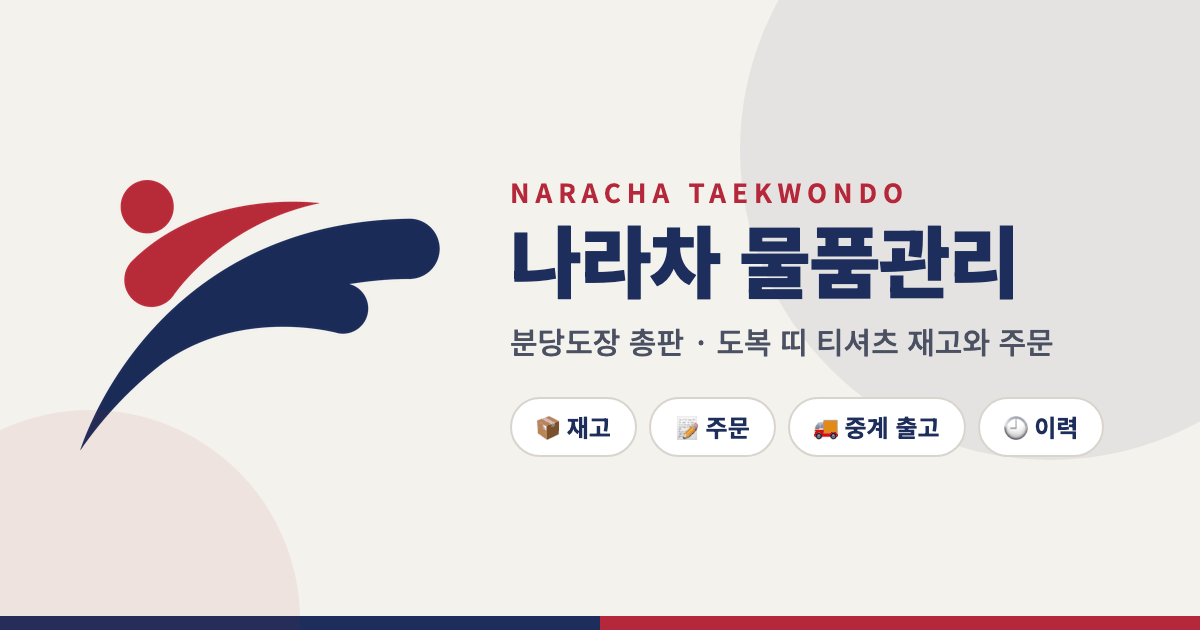
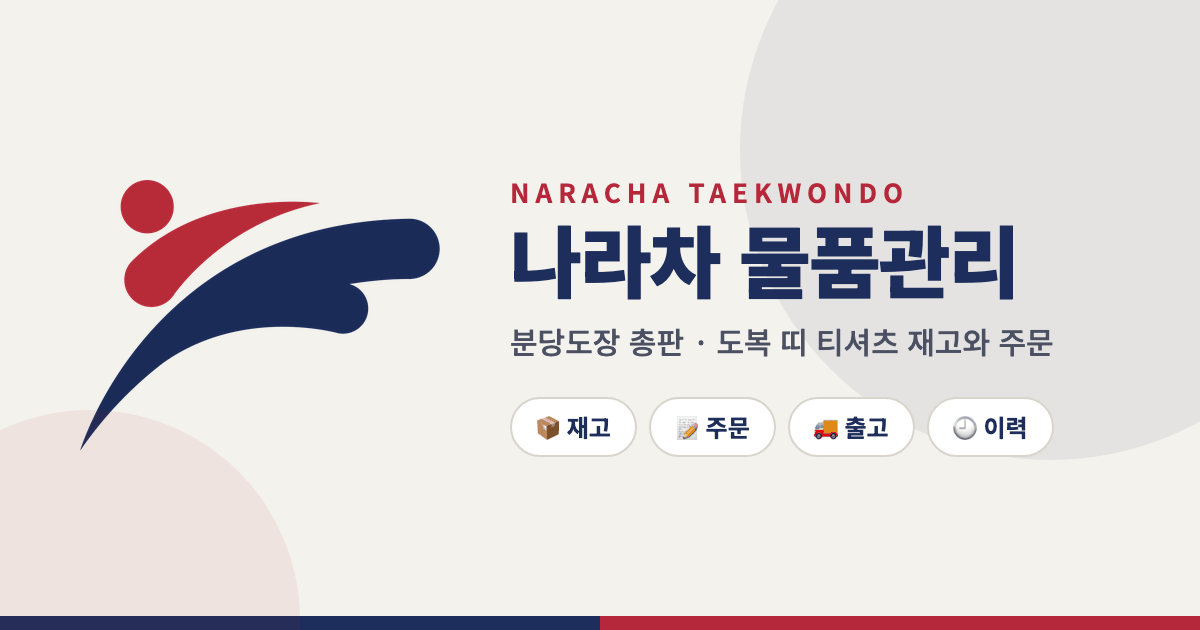
물품앱 R1.4 중계 탭 제거 → 출고 탭(받는 곳·위치·수량 기록, 즉시 차감·취소 복원) (v1.4)

Changed region(s): [[0.7092, 0.6333, 0.925, 0.7238]]

diff --git a/stock.html b/stock.html
@@ -4,7 +4,7 @@
 <meta charset="UTF-8">
 <meta name="viewport" content="width=device-width, initial-scale=1.0, viewport-fit=cover">
 <title>나라차 물품관리</title>
-<meta name="description" content="나라차태권도 분당도장(총판) 도복·띠·티셔츠 재고 파악과 주문, 중계도장 출고 관리">
+<meta name="description" content="나라차태권도 분당도장(총판) 도복·띠·티셔츠 재고 파악과 주문·출고 관리">
 <meta name="theme-color" content="#1D2E5C">
 <meta name="apple-mobile-web-app-capable" content="yes">
 <meta name="apple-mobile-web-app-status-bar-style" content="default">
@@ -13,7 +13,7 @@
 <meta property="og:type" content="website">
 <meta property="og:site_name" content="나라차태권도 분당도장">
 <meta property="og:title" content="나라차 물품관리">
-<meta property="og:description" content="도복 · 띠 · 티셔츠 재고 파악과 주문, 중계도장 출고까지 한 곳에서">
+<meta property="og:description" content="도복 · 띠 · 티셔츠 재고 파악과 주문, 출고 기록까지 한 곳에서">
 <meta property="og:url" content="https://narachadata.github.io/naracha/stock.html">
 <meta property="og:image" content="https://narachadata.github.io/naracha/stock-og.png">
 <meta property="og:image:width" content="1200">
@@ -208,17 +208,17 @@ pre.txt{white-space:pre-wrap;background:#f7f6f2;border:1px solid var(--line);bor
 <script>
 /* ═══════════════════════════════════════════════════════════════
    나라차 물품관리 (stock.html)
-   - 도복·띠·티셔츠 재고 파악 · 주문 · 중계도장 출고 · 이력
+   - 도복·띠·티셔츠 재고 파악 · 주문 · 출고 기록 · 이력
    - 단일 HTML 파일. 데이터는 이 기기(localStorage) + 구글 시트(Apps Script 「물품창고」)
    - 여러 기기 동시 수정: 값 하나하나에 수정시각(t)을 붙여 "더 최근 것"이 이기는 방식으로
      서버·기기 모두 같은 규칙으로 병합. 삭제는 del 표시(묘비)로 남기고 버리지 않는다.
    - 서버 응답이 조금이라도 이상하면(형식·인증·오류) 절대 저장하지 않는다(fail-closed).
    ═══════════════════════════════════════════════════════════════ */
-var APP_VER = "v1.3";   /* R1.3: 티셔츠 초기 수량 비움(관장님 직접 입력), 도복 수량 엑셀 대조 확인 · R1.2: 긴팔은 네이비·블랙만 — 긴팔 흰색 제거, 긴팔 남색 추가 · R1.1: 긴팔T-B=검정 확정, 초기값 이름 수정 · R1.0: 최초 제작 2026-09-09 */
+var APP_VER = "v1.4";   /* R1.4: 중계 탭 제거 → 출고 탭(받는 곳·위치·수량 기록, 즉시 차감, 취소=복원) · R1.3: 티셔츠 초기 수량 비움(관장님 직접 입력), 도복 수량 엑셀 대조 확인 · R1.2: 긴팔은 네이비·블랙만 — 긴팔 흰색 제거, 긴팔 남색 추가 · R1.1: 긴팔T-B=검정 확정, 초기값 이름 수정 · R1.0: 최초 제작 2026-09-09 */
 
 var LS_DB='naracha_stock_db', LS_CFG='naracha_stock_cfg', LS_DIRTY='naracha_stock_dirty', LS_UI='naracha_stock_ui';
 var CATS=[{id:'dobok',name:'도복',unit:'벌',ic:'🥋'},{id:'belt',name:'띠',unit:'개',ic:'🎗'},{id:'tee',name:'티셔츠',unit:'장',ic:'👕'}];
-var LOGTYPES={sale:'판매',in:'입고',adj:'조정',move:'이동',count:'실사',jg:'중계출고',undo:'되돌림',seed:'초기값',order:'주문'};
+var LOGTYPES={sale:'판매',in:'입고',adj:'조정',move:'이동',count:'실사',out:'출고',undo:'되돌림',seed:'초기값',order:'주문'};
 var SEED_T = 1788800000000;  /* 초기값 전용 고정 시각(2026-09-07) — 사람이 고친 값(더 최근)이 항상 이기도록 */
 
 var DB={rev:0,recs:{}};  var DIRTY={};  var CFG={url:'',key:'',who:''};
@@ -348,14 +348,13 @@ function isTyping(){var a=document.activeElement;return a&&(a.tagName==='INPUT'|
 function toast(m){var t=document.getElementById('toast');t.textContent=m;t.classList.add('show');clearTimeout(t._h);t._h=setTimeout(function(){t.classList.remove('show');},2200);}
 function go(tab){UI.tab=tab;saveUI();render();window.scrollTo(0,0);}
 function render(){
-  var tabs=[['stock','재고','📦'],['order','주문','📝'],['jg','중계','🚚'],['log','이력','🕘'],['set','설정','⚙']];
+  var tabs=[['stock','재고','📦'],['order','주문','📝'],['out','출고','🚚'],['log','이력','🕘'],['set','설정','⚙']];
   var lackN=0;groups().forEach(function(g){items(g.id).forEach(function(it){if(lack(it.id)>0)lackN++;});});
-  var jgN=recsOf('jg').filter(function(r){return fv(r.id,'status')==='req';}).length;
-  document.getElementById('tabs').innerHTML=tabs.map(function(t){var b='';if(t[0]==='order'&&lackN)b='<span class="badge">'+lackN+'</span>';if(t[0]==='jg'&&jgN)b='<span class="badge">'+jgN+'</span>';
+  document.getElementById('tabs').innerHTML=tabs.map(function(t){var b='';if(t[0]==='order'&&lackN)b='<span class="badge">'+lackN+'</span>';
     return '<button class="'+(UI.tab===t[0]?'on':'')+'" onclick="go(\''+t[0]+'\')"><span class="ic">'+t[2]+'</span><span>'+t[1]+'</span>'+b+'</button>';}).join('');
   document.getElementById('whoPill').textContent=CFG.who||'이름?';
   var v=document.getElementById('view');
-  v.innerHTML=({stock:rStock,order:rOrder,jg:rJg,log:rLog,set:rSet}[UI.tab]||rStock)();
+  v.innerHTML=({stock:rStock,order:rOrder,out:rOut,log:rLog,set:rSet}[UI.tab]||rStock)();
   setState(SY.state,SY.msg);
 }
 function banner(){
@@ -442,7 +441,7 @@ function openGroupMenu(g){
   var h='<div class="mh"><div><div class="t">'+esc(grpName(g))+'</div><div class="s">'+esc(fv(g,'sub',''))+'</div></div><button class="x" onclick="closeModal()">✕</button></div>';
   h+='<div class="field"><label>이름</label><input class="inp" id="gname" value="'+esc(grpName(g))+'"></div>';
   h+='<div class="field"><label>설명(원단·규격 등)</label><input class="inp" id="gsub" value="'+esc(fv(g,'sub',''))+'"></div>';
-  h+='<div class="row"><div class="field" style="flex:1"><label>단위</label><input class="inp" id="gunit" value="'+esc(grpUnit(g))+'"></div><div class="field" style="flex:1"><label>판매 단가(원, 중계 출고 금액용)</label><input class="inp" type="number" inputmode="numeric" id="gprice" value="'+(fv(g,'price',0)||'')+'"></div></div>';
+  h+='<div class="row"><div class="field" style="flex:1"><label>단위</label><input class="inp" id="gunit" value="'+esc(grpUnit(g))+'"></div><div class="field" style="flex:1"><label>판매 단가(원, 출고 금액 집계용)</label><input class="inp" type="number" inputmode="numeric" id="gprice" value="'+(fv(g,'price',0)||'')+'"></div></div>';
   h+='<div class="field"><label>사이즈 추가 (쉼표로 여러 개: 150,160)</label><div class="row"><input class="inp" id="gsizes" style="flex:1" placeholder="예: 210"><button class="btn sec" onclick="addSizes(\''+g+'\')">추가</button></div></div>';
   h+='<div class="field"><label>사이즈 숨기기/보이기 (누르면 전환)</label><div class="chips">'+items(g,true).map(function(it){return '<button class="chip '+(alive(it.id)?'on':'')+'" onclick="toggleItem(\''+it.id+'\',this)">'+esc(fv(it.id,'size'))+'</button>';}).join('')+'</div><div class="note">숨겨도 기록은 남고 다시 보이게 할 수 있습니다.</div></div>';
   h+='<div class="mf"><button class="btn sec" onclick="hideGroup(\''+g+'\')">품목군 숨기기</button><button class="btn" onclick="saveGroup(\''+g+'\')">저장</button></div>';
@@ -528,71 +527,72 @@ function saveReceive(id){var ls=fv(id,'lines',[]).map(function(l){return {it:l.i
 
 /* 항목 고르기(주문 직접 추가 · 중계 주문 공용) */
 var PICK={mode:'',cat:'dobok',g:'',lines:[]};
-function openPick(mode,keep){PICK.mode=mode;if(!keep){PICK.lines=[];PICK.g='';}renderPick();}
+function openPick(mode,keep){PICK.mode=mode;if(!keep){PICK.lines=[];PICK.g='';PICK.to='';PICK.memo='';PICK.loc='';}renderPick();}
 function renderPick(){
   var gs=groups(PICK.cat);if(!PICK.g||fv(PICK.g,'cat')!==PICK.cat)PICK.g=gs.length?gs[0].id:'';
-  var h='<div class="mh"><div><div class="t">'+(PICK.mode==='jg'?'중계도장 주문 접수':'항목 추가')+'</div><div class="s">분류 → 품목군 → 사이즈를 누르면 담깁니다</div></div><button class="x" onclick="closeModal()">✕</button></div>';
+  var h='<div class="mh"><div><div class="t">'+(PICK.mode==='out'?'출고 기록':'항목 추가')+'</div><div class="s">분류 → 품목군 → 사이즈를 누르면 담깁니다</div></div><button class="x" onclick="closeModal()">✕</button></div>';
   h+='<div class="chips" style="margin-bottom:8px">'+CATS.map(function(c){return '<button class="chip '+(PICK.cat===c.id?'on':'')+'" onclick="PICK.cat=\''+c.id+'\';PICK.g=\'\';renderPick()">'+c.ic+' '+c.name+'</button>';}).join('')+'</div>';
   h+='<select class="inp" onchange="PICK.g=this.value;renderPick()">'+gs.map(function(g){return '<option value="'+g.id+'" '+(PICK.g===g.id?'selected':'')+'>'+esc(grpName(g.id))+(fv(g.id,'sub')?' — '+esc(fv(g.id,'sub')):'')+'</option>';}).join('')+'</select>';
   h+='<div class="chips" style="margin:10px 0">'+(PICK.g?items(PICK.g).map(function(it){return '<button class="chip" onclick="pickAdd(\''+it.id+'\')">'+esc(fv(it.id,'size'))+' <small style="opacity:.6">('+total(it.id)+')</small></button>';}).join(''):'')+'</div>';
   h+='<div class="lines">'+(PICK.lines.length?PICK.lines.map(function(l,i){return '<div class="line"><div class="n">'+esc(itemName(l.it))+' <small style="color:var(--mute)">보유 '+total(l.it)+'</small></div><div class="step" style="transform:scale(.85);transform-origin:right"><button onclick="PICK.lines['+i+'].q=Math.max(1,PICK.lines['+i+'].q-1);renderPick()">−</button><input type="number" inputmode="numeric" value="'+l.q+'" onchange="PICK.lines['+i+'].q=Math.max(1,Math.round(num(this.value)))"><button onclick="PICK.lines['+i+'].q++;renderPick()">＋</button></div><button class="btn xs ghost" onclick="PICK.lines.splice('+i+',1);renderPick()">✕</button></div>';}).join(''):'<div class="note">아직 담긴 항목이 없습니다.</div>')+'</div>';
-  if(PICK.mode==='jg')h+='<div class="field"><label>요청자 / 메모</label><input class="inp" id="jgmemo" placeholder="예: 중계 김사범 요청, 9/12 필요"></div>';
-  h+='<div class="mf"><button class="btn sec" onclick="closeModal()">취소</button><button class="btn" onclick="pickDone()" '+(PICK.lines.length?'':'disabled')+'>'+(PICK.mode==='jg'?'접수':'담기')+'</button></div>';
+  if(PICK.mode==='out'){var L=locs();h+='<div class="field"><label>받는 곳 / 주문한 사람</label><input class="inp" id="oto" value="'+esc(PICK.to||'')+'" placeholder="예: 중계도장, 김OO 학부모" onchange="PICK.to=this.value"></div>'
+    +'<div class="field"><label>어느 위치 재고에서 뺄까요</label><select class="inp" id="oloc" onchange="PICK.loc=this.value">'+L.map(function(l){return '<option value="'+l.id+'" '+((PICK.loc||(L[0]&&L[0].id))===l.id?'selected':'')+'>'+esc(locName(l.id))+' (보유: '+PICK.lines.map(function(x){return qty(x.it,l.id);}).join('/')+')</option>';}).join('')+'</select></div>'
+    +'<div class="field"><label>메모(선택)</label><input class="inp" id="omemo2" value="'+esc(PICK.memo||'')+'" placeholder="예: 9/12 직접 전달" onchange="PICK.memo=this.value"></div>';}
+  h+='<div class="mf"><button class="btn sec" onclick="closeModal()">취소</button><button class="btn" onclick="pickDone()" '+(PICK.lines.length?'':'disabled')+'>'+(PICK.mode==='out'?'출고 저장':'담기')+'</button></div>';
   openModal(h);
 }
 function pickAdd(it){var f=PICK.lines.filter(function(l){return l.it===it;})[0];if(f)f.q++;else PICK.lines.push({it:it,q:1});renderPick();}
 function pickDone(){
-  if(PICK.mode==='jg'){var memo=(document.getElementById('jgmemo')||{}).value||'';var id=uid('jg');setF(id,'jg',{t:now(),who:CFG.who||'',status:'req',lines:PICK.lines.map(function(l){return {it:l.it,q:l.q};}),memo:memo.trim(),del:false});closeModal();render();toast('중계 주문 접수됨');}
+  if(PICK.mode==='out'){saveOut();}
   else{PICK.lines.forEach(function(l){var f=UI.orderExtra.filter(function(x){return x.it===l.it;})[0];if(f)f.q+=l.q;else UI.orderExtra.push({it:l.it,q:l.q});});closeModal();render();}
 }
 
-/* ═══════════ 중계 탭 ═══════════ */
-function rJg(){
+/* ═══════════ 출고 탭 ═══════════ */
+function rOut(){
   var h=banner();
-  h+='<div class="banner" style="background:#eef1f8;border-color:#d5dcec;color:var(--navy)">🚚 <span class="sp"><b>중계도장</b>은 판매처입니다. 주문이 들어오면 접수하고, 보낼 때 [출고]를 누르면 분당 재고에서 빠지고 판매 기록이 남습니다.</span></div>';
-  h+='<div class="toolbar"><button class="btn" onclick="openPick(\'jg\')">＋ 중계 주문 접수</button></div>';
-  var js=recsOf('jg').sort(function(a,b){return fv(b.id,'t',0)-fv(a.id,'t',0);});
+  h+='<div class="banner" style="background:#eef1f8;border-color:#d5dcec;color:var(--navy)">🚚 <span class="sp">주문이 들어오면 <b>어디로 · 무엇을 · 몇 개</b> 보냈는지 기록합니다. 저장하는 순간 고른 위치의 재고에서 빠지고, 이력에도 남습니다.</span></div>';
+  h+='<div class="toolbar"><button class="btn" onclick="openPick(\'out\')">＋ 출고 기록</button></div>';
+  var os=recsOf('out').sort(function(a,b){return fv(b.id,'t',0)-fv(a.id,'t',0);});
   var m0=new Date();m0=new Date(m0.getFullYear(),m0.getMonth(),1).getTime();var mn=0,mw=0,tn=0,tw=0;
-  js.forEach(function(j){if(fv(j.id,'status')!=='done')return;fv(j.id,'lines',[]).forEach(function(l){var q=num(l.q),p=num(fv(fv(l.it,'grp'),'price',0));tn+=q;tw+=q*p;if(fv(j.id,'doneAt',0)>=m0){mn+=q;mw+=q*p;}});});
-  h+='<div class="kpis"><div class="kpi"><div class="v">'+js.filter(function(j){return fv(j.id,'status')==='req';}).length+'</div><div class="l">출고 대기 주문</div></div><div class="kpi"><div class="v">'+mn+'</div><div class="l">이번 달 출고 수량'+(mw?' · '+won(mw):'')+'</div></div><div class="kpi"><div class="v">'+tn+'</div><div class="l">누적 출고 수량'+(tw?' · '+won(tw):'')+'</div></div></div>';
+  os.forEach(function(o){if(fv(o.id,'undone',false))return;fv(o.id,'lines',[]).forEach(function(l){var q=num(l.q),p=num(fv(fv(l.it,'grp'),'price',0));tn+=q;tw+=q*p;if(fv(o.id,'t',0)>=m0){mn+=q;mw+=q*p;}});});
+  h+='<div class="kpis"><div class="kpi"><div class="v">'+os.filter(function(o){return !fv(o.id,'undone',false);}).length+'</div><div class="l">출고 기록 수</div></div><div class="kpi"><div class="v">'+mn+'</div><div class="l">이번 달 출고 수량'+(mw?' · '+won(mw):'')+'</div></div><div class="kpi"><div class="v">'+tn+'</div><div class="l">누적 출고 수량'+(tw?' · '+won(tw):'')+'</div></div></div>';
   h+='<div class="olist">';
-  if(!js.length)h+='<div class="empty">중계 주문이 없습니다.</div>';
-  js.forEach(function(j){var st=fv(j.id,'status');var ls=fv(j.id,'lines',[]);var n=0,w=0;ls.forEach(function(l){n+=num(l.q);w+=num(l.q)*num(fv(fv(l.it,'grp'),'price',0));});
-    h+='<div class="card"><div class="bd"><div class="oc"><span class="dt">'+fmtD(fv(j.id,'t'))+'</span>'+(st==='done'?'<span class="tag ok">출고 완료 '+fmtD(fv(j.id,'doneAt'))+'</span>':'<span class="tag warn">출고 대기</span>')+'<span class="wh">'+esc(fv(j.id,'who',''))+' · 총 '+n+(w?' · '+won(w):'')+'</span></div>';
+  if(!os.length)h+='<div class="empty">출고 기록이 없습니다. [＋ 출고 기록]으로 시작하세요.</div>';
+  os.forEach(function(o){var ls=fv(o.id,'lines',[]);var n=0,w=0;ls.forEach(function(l){n+=num(l.q);w+=num(l.q)*num(fv(fv(l.it,'grp'),'price',0));});
+    h+='<div class="card"><div class="bd"><div class="oc"><span class="dt">'+fmtD(fv(o.id,'t'))+'</span><span class="tag">→ '+esc(fv(o.id,'to','')||'미기재')+'</span><span class="wh">'+esc(fv(o.id,'who',''))+' · '+esc(locName(fv(o.id,'loc','')))+'에서 · 총 '+n+(w?' · '+won(w):'')+'</span></div>';
     h+=orderLinesHtml(ls);
-    if(fv(j.id,'memo'))h+='<div class="note">'+esc(fv(j.id,'memo'))+'</div>';
-    h+='<div class="acts"><button class="btn xs sec" onclick="copyText(jgText(\''+j.id+'\'))">📋 문구 복사</button>';
-    if(st==='req')h+='<button class="btn xs" onclick="openShip(\''+j.id+'\')">🚚 출고 처리</button><button class="btn xs ghost" onclick="if(confirm(\'이 접수를 삭제할까요?\')){setF(\''+j.id+'\',\'jg\',{del:true});render();}">삭제</button>';
+    if(fv(o.id,'memo'))h+='<div class="note">'+esc(fv(o.id,'memo'))+'</div>';
+    h+='<div class="acts"><button class="btn xs sec" onclick="copyText(outText(\''+o.id+'\'))">📋 문구 복사</button>';
+    if(!fv(o.id,'undone',false))h+='<button class="btn xs ghost" onclick="undoOut(\''+o.id+'\')">취소(재고 복원)</button>';else h+='<span class="tag gray">취소됨</span>';
     h+='</div></div></div>';});
   return h+'</div>';
 }
-function jgText(id){var ls=fv(id,'lines',[]);var s='[나라차 분당 → 중계도장 '+(fv(id,'status')==='done'?'출고':'주문')+'] '+fmtD(fv(id,'t'))+'\n';var n=0,w=0;
+function outText(id){var ls=fv(id,'lines',[]);var s='[나라차 분당도장 출고] '+fmtD(fv(id,'t'))+' → '+(fv(id,'to','')||'')+'\n';var n=0,w=0;
   ls.forEach(function(l){var g=fv(l.it,'grp'),p=num(fv(g,'price',0));s+=' - '+itemName(l.it)+' : '+num(l.q)+grpUnit(g)+(p?' ('+won(p*num(l.q))+')':'')+'\n';n+=num(l.q);w+=p*num(l.q);});
   s+='합계 '+n+(w?' · '+won(w):'')+(fv(id,'memo')?'\n'+fv(id,'memo'):'');return s;}
-function openShip(id){var ls=fv(id,'lines',[]);var L=locs();
-  var h='<div class="mh"><div><div class="t">중계 출고</div><div class="s">어느 위치 재고에서 뺄지 고르세요</div></div><button class="x" onclick="closeModal()">✕</button></div>';
-  h+='<div class="field"><label>출고 위치(재고에서 빠지는 곳)</label><select class="inp" id="sloc" onchange="shipCheck(\''+id+'\')">'+L.map(function(l,i){return '<option value="'+l.id+'" '+(i===0?'selected':'')+'>'+esc(locName(l.id))+'</option>';}).join('')+'</select></div>';
-  h+='<div id="shipLines"></div><div class="field" style="margin-top:10px"><label>메모</label><input class="inp" id="smemo" placeholder="예: 9/12 직접 전달"></div>';
-  h+='<div class="mf"><button class="btn sec" onclick="closeModal()">취소</button><button class="btn" onclick="saveShip(\''+id+'\')">출고 확정</button></div>';openModal(h);shipCheck(id);}
-function shipCheck(id){var loc=document.getElementById('sloc').value;var ls=fv(id,'lines',[]);
-  document.getElementById('shipLines').innerHTML=ls.map(function(l,i){var have=qty(l.it,loc),q=num(l.q);return '<div class="qrow"><div class="ln">'+esc(itemName(l.it))+'<small>'+esc(locName(loc))+' 보유 '+have+(have<q?' <span style="color:var(--red)">부족 '+(q-have)+'</span>':'')+'</small></div><div class="step"><button onclick="stepO(this,-1)">−</button><input type="number" inputmode="numeric" class="sq" data-i="'+i+'" value="'+q+'"><button onclick="stepO(this,1)">＋</button></div></div>';}).join('');}
-function saveShip(id){var loc=document.getElementById('sloc').value;var memo=document.getElementById('smemo').value.trim();var ls=fv(id,'lines',[]).map(function(l){return {it:l.it,q:l.q};});
-  [].forEach.call(document.querySelectorAll('.sq'),function(i){ls[num(i.dataset.i)].q=Math.max(0,Math.round(num(i.value)));});
+function saveOut(){
+  var to=(document.getElementById('oto')||{}).value||'';var loc=document.getElementById('oloc').value;var memo=(document.getElementById('omemo2')||{}).value||'';
+  var ls=PICK.lines.map(function(l){return {it:l.it,q:l.q};});
   var short=ls.filter(function(l){return qty(l.it,loc)<l.q;});
-  if(short.length&&!confirm(short.map(function(l){return itemName(l.it)+' '+qty(l.it,loc)+'→'+l.q;}).join('\n')+'\n\n'+locName(loc)+' 재고보다 많습니다. 재고는 0까지만 줄어듭니다. 그래도 출고할까요?'))return;
-  var ch=ls.filter(function(l){return l.q>0;}).map(function(l){return {it:l.it,loc:loc,to:qty(l.it,loc)-l.q};});
-  applyQty(ch,'jg',memo||'중계도장 출고',{ref:id});setF(id,'jg',{status:'done',doneAt:now(),lines:ls,loc:loc});closeModal();render();toast('출고 완료 — 재고에서 차감됨');}
+  if(short.length&&!confirm(short.map(function(l){return itemName(l.it)+' '+qty(l.it,loc)+'→'+l.q;}).join('\n')+'\n\n'+locName(loc)+' 재고보다 많습니다. 재고는 0까지만 줄어듭니다. 그래도 기록할까요?'))return;
+  var id=uid('out');
+  var ch=ls.map(function(l){return {it:l.it,loc:loc,to:qty(l.it,loc)-l.q};});
+  applyQty(ch,'out',(to.trim()?to.trim()+' 출고':'출고')+(memo.trim()?' · '+memo.trim():''),{ref:id});
+  setF(id,'out',{t:now(),who:CFG.who||'',to:to.trim(),loc:loc,lines:ls,memo:memo.trim(),del:false});
+  closeModal();render();toast('출고 기록됨 — 재고에서 차감');}
+function undoOut(id){var ls=fv(id,'lines',[]);var loc=fv(id,'loc','');if(!confirm('이 출고를 취소하고 '+locName(loc)+' 재고를 되돌릴까요?'))return;
+  var ch=ls.map(function(l){return {it:l.it,loc:loc,to:qty(l.it,loc)+num(l.q)};});applyQty(ch,'undo','출고 취소: → '+fv(id,'to',''),{ref:id});setF(id,'out',{undone:true});render();toast('출고를 취소했습니다');}
 
 /* ═══════════ 이력 탭 ═══════════ */
 function rLog(){
   var h=banner();
-  var ts=[['','전체'],['sale','판매'],['in','입고'],['jg','중계출고'],['adj','조정'],['move','이동'],['count','실사'],['undo','되돌림'],['seed','초기값']];
+  var ts=[['','전체'],['sale','판매'],['in','입고'],['out','출고'],['adj','조정'],['move','이동'],['count','실사'],['undo','되돌림'],['seed','초기값']];
   h+='<div class="toolbar"><div class="chips">'+ts.map(function(t){return '<button class="chip '+(UI.logF===t[0]?'on':'')+'" onclick="UI.logF=\''+t[0]+'\';UI.logN=80;render()">'+t[1]+'</button>';}).join('')+'</div><span class="sp"></span><button class="btn sm sec" onclick="dlCsv(\'log\')">⬇ 이력 CSV</button></div>';
   var ls=recsOf('log').filter(function(r){return !UI.logF||fv(r.id,'type')===UI.logF;}).sort(function(a,b){return fv(b.id,'t',0)-fv(a.id,'t',0);});
   h+='<div class="card"><div class="bd" style="padding-top:2px">';
   if(!ls.length)h+='<div class="empty">기록이 없습니다.</div>';
   ls.slice(0,UI.logN).forEach(function(r){var id=r.id,ty=fv(id,'type'),rv=fv(id,'reverted',false);
-    h+='<div class="log '+(rv?'rv':'')+'"><div class="h"><span class="tag '+({sale:'red',in:'ok',jg:'red',count:'warn',undo:'gray',seed:'gray'}[ty]||'')+'">'+(LOGTYPES[ty]||ty)+'</span><b>'+fmtT(fv(id,'t'))+'</b><span>'+esc(fv(id,'who',''))+'</span>'
+    h+='<div class="log '+(rv?'rv':'')+'"><div class="h"><span class="tag '+({sale:'red',in:'ok',out:'red',count:'warn',undo:'gray',seed:'gray'}[ty]||'')+'">'+(LOGTYPES[ty]||ty)+'</span><b>'+fmtT(fv(id,'t'))+'</b><span>'+esc(fv(id,'who',''))+'</span>'
       +(ty!=='undo'&&ty!=='seed'&&!rv?'<button class="btn xs ghost" style="margin-left:auto" onclick="undoLog(\''+id+'\')">되돌리기</button>':'')+'</div><div class="b">';
     var lines=fv(id,'lines',[]);var sh=lines.slice(0,12);
     h+=sh.map(function(l){return '<div>'+esc(itemName(l.it))+' · '+esc(locName(l.loc))+' <b style="color:'+(l.d>0?'var(--ok)':'var(--red)')+'">'+(l.d>0?'+':'')+l.d+'</b> <span style="color:var(--mute)">('+l.from+'→'+l.to+')</span></div>';}).join('');
